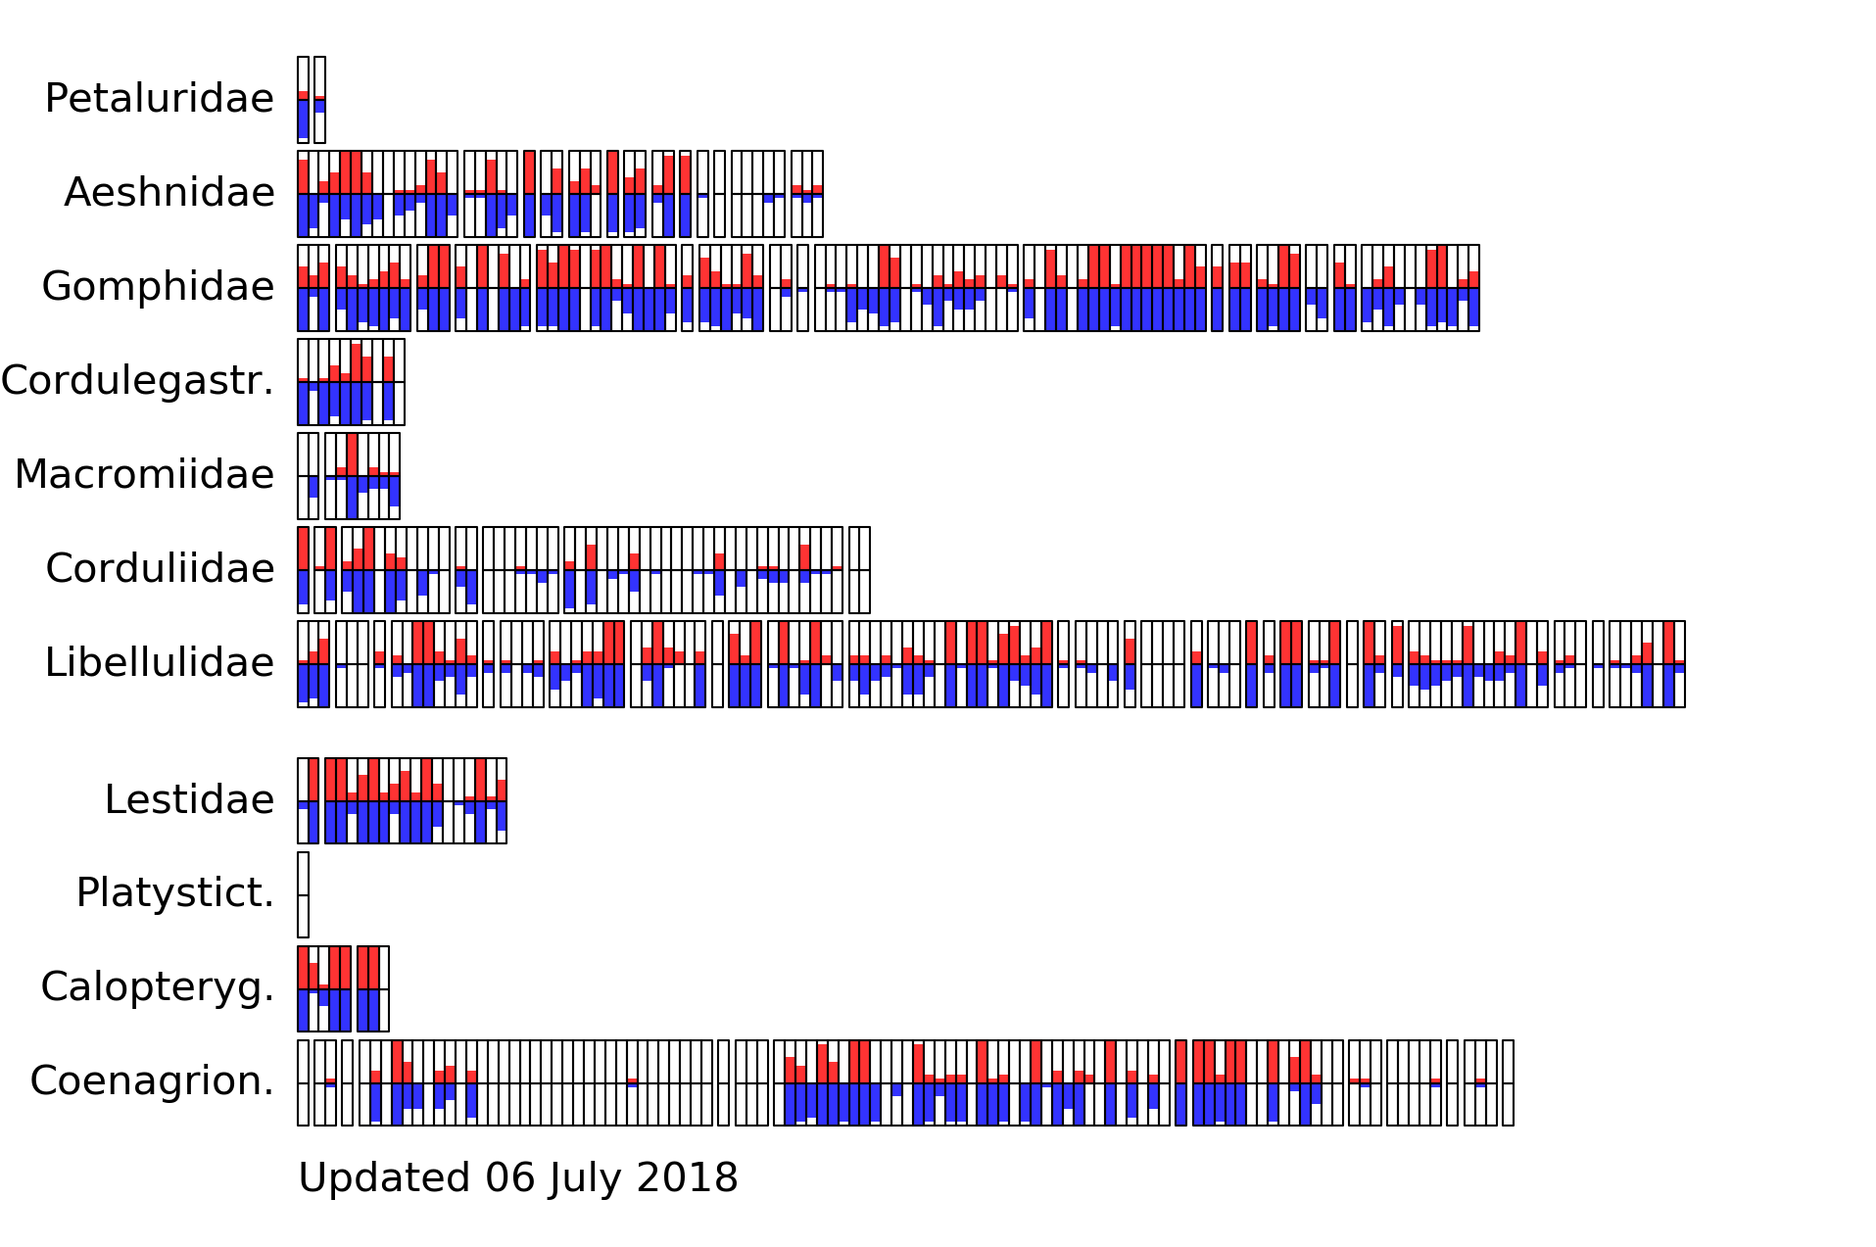
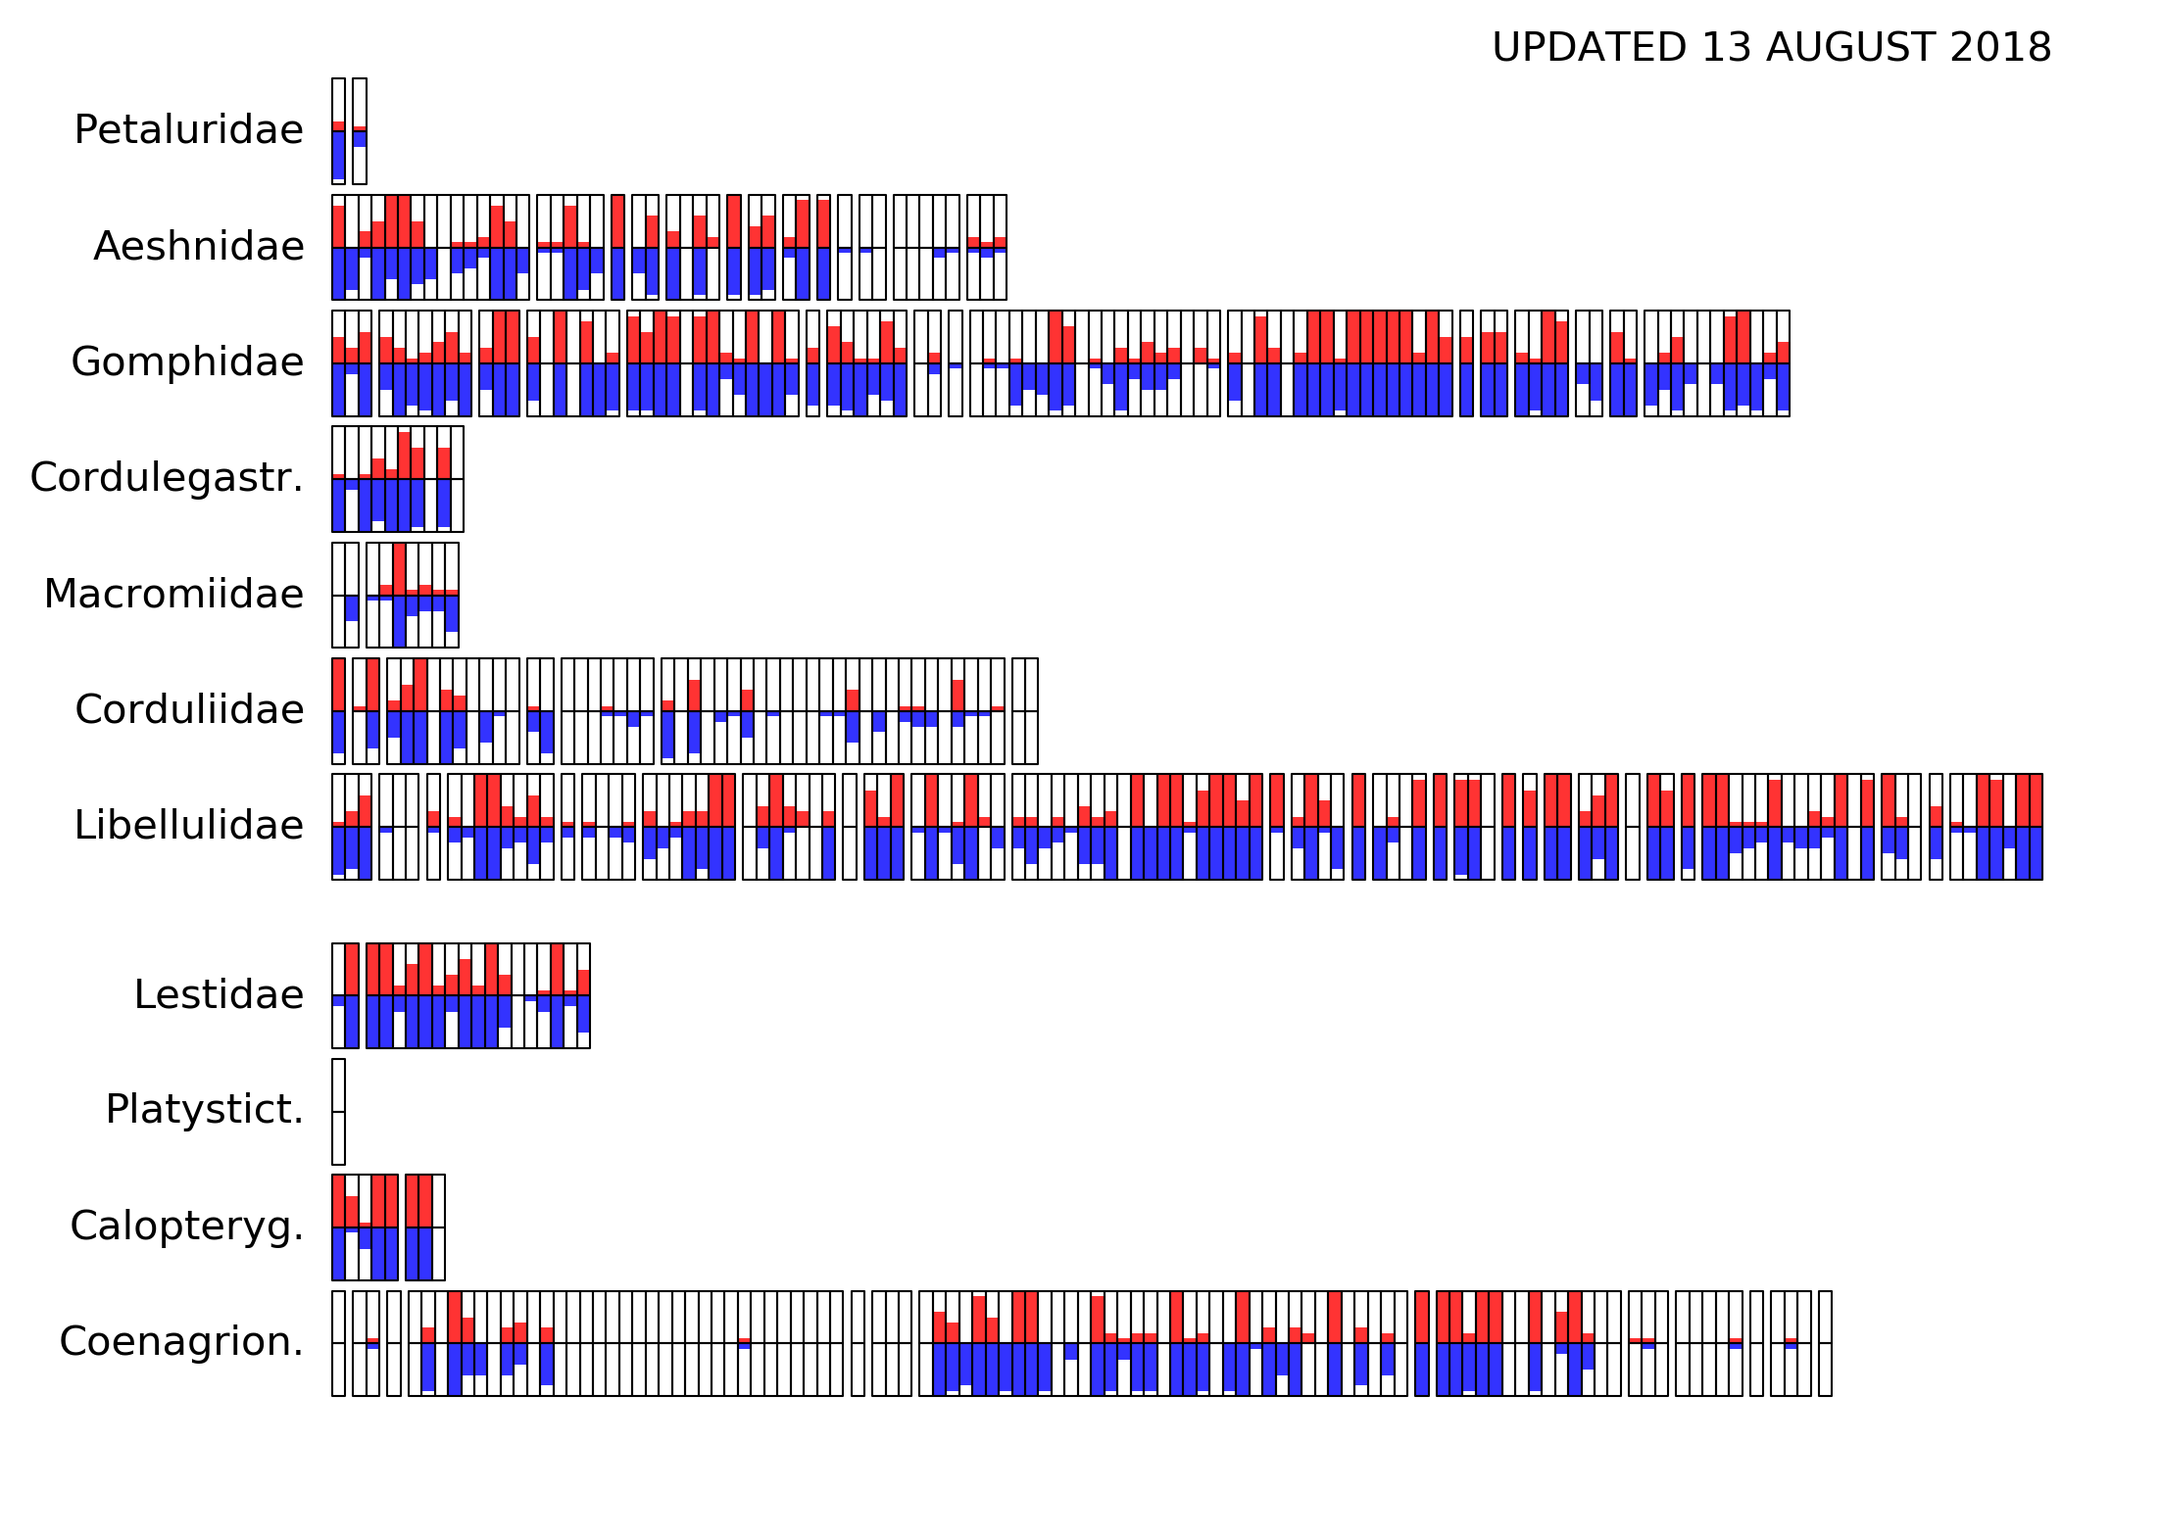
updated stats

Changed region(s): [[0.0, 0.0306, 0.9551, 0.9497], [0.801, 0.0, 0.9551, 0.0613], [0.7086, 0.0, 0.7702, 0.0613]]

diff --git a/_site/index.html b/_site/index.html
@@ -67,11 +67,11 @@
 
 <hr />
 
-<h2 id="about-the-project">About the Project<a href="#"></a></h2>
+<h2 id="about-the-project">About the Project</h2>
 
 <p><strong>Dragonflies and damselflies (Odonata)</strong> are highly skilled aerial acrobats, due largely to the intricacies of their most prominent features: their <strong>wings</strong>. These structures are both functional and beautiful: they provide extreme maneuverability and durability in a lightweight package, and they can be marked with bright color patterns and even iridescence! The structure and appearance of these wings provides a <strong>rich source of information</strong> about the evolutionary history, aerodynamic constraints, and behavior of a species.</p>
 
-<p>The Targeted Odonata Wing Digitization (TOWD) Project is part of an <a href="https://www.nsf.gov/awardsearch/showAward?AWD_ID=1564386&amp;HistoricalAwards=false"><strong>NSF-funded</strong></a>, multi-institutional effort to develop ODOMATIC, software for automatically identifying Odonata from images. Initiated in 2016, the TOWD Project aims to digitize the world’s dragonfly and damselfly species, starting with the approx. <strong>464 North American species</strong>. We are working to produce a <strong>high-resolution imagery</strong> of these species (including multiple males and females from each), partnering with several odonate collections, and building the most complete dataset of odonate wings ever compiled. Behind the scenes, we use <strong>computer vision</strong> to pull phenotypic information from our wings, which can be used for identification and comparative study.</p>
+<p>The Targeted Odonata Wing Digitization (TOWD) Project is part of an <a href="https://www.nsf.gov/awardsearch/showAward?AWD_ID=1564386&amp;HistoricalAwards=false"><strong>NSF-funded</strong></a>, multi-institutional effort to develop ODOMATIC, software for automatically identifying Odonata from images. Initiated in 2016, the TOWD Project aims to digitize the world’s dragonfly and damselfly species, starting with the approx. <strong>466 North American species</strong>. We are working to produce a <strong>high-resolution imagery</strong> of these species (including multiple males and females from each), partnering with several odonate collections, and building the most complete dataset of odonate wings ever compiled. Behind the scenes, we use <strong>computer vision</strong> to pull phenotypic information from our wings, which can be used for identification and comparative study.</p>
 
 <p>The TOWD dataset will be used for <strong>two main purposes</strong>:</p>
 <ol>
@@ -94,11 +94,11 @@
 <h3 id="acknowledgement-of-nsf-support">Acknowledgement of NSF Support</h3>
 <p>This material is based upon work supported by the National Science Foundation under Grant No. 1564386. Any opinions, findings, and conclusions or recommendations expressed in this material are those of the author(s) and do not necessarily reflect the views of the National Science Foundation.</p>
 
-<h2 id="project-progress">Project progress<a href="#"></a></h2>
+<h2 id="project-progress">Project progress</h2>
 
-<p>Our goal is to image at least 10 males and 10 females from each of the 464 North American dragonfly and damselfly species. The progress of this ambitious endeavor is listed below as quick stats and as an illustrative figure.</p>
+<p>Our goal is to image at least 10 males and 10 females from each of the 466 North American dragonfly and damselfly species. The progress of this ambitious endeavor is listed below as quick stats and as an illustrative figure.</p>
 
-<h3 id="quick-stats-as-of-07-july-2018">Quick stats (as of 07 July 2018):</h3>
+<h3 id="quick-stats-as-of-13-august-2018">Quick stats (as of 13 August 2018):</h3>
 
 <table>
   <thead>
@@ -112,27 +112,27 @@
   <tbody>
     <tr>
       <td style="text-align: left">North Amer. individuals scanned</td>
-      <td style="text-align: right">3,608</td>
-      <td style="text-align: right">9,280</td>
-      <td style="text-align: right">38.88%</td>
+      <td style="text-align: right">3,932</td>
+      <td style="text-align: right">9,320</td>
+      <td style="text-align: right">42%</td>
     </tr>
     <tr>
       <td style="text-align: left">North Amer. species started (1+ scan)</td>
-      <td style="text-align: right">351</td>
-      <td style="text-align: right">464</td>
-      <td style="text-align: right">75.65%</td>
+      <td style="text-align: right">357</td>
+      <td style="text-align: right">466</td>
+      <td style="text-align: right">77%</td>
     </tr>
     <tr>
       <td style="text-align: left">North Amer. species with 10+ scans</td>
-      <td style="text-align: right">179</td>
-      <td style="text-align: right">464</td>
-      <td style="text-align: right">38.58%</td>
+      <td style="text-align: right">199</td>
+      <td style="text-align: right">466</td>
+      <td style="text-align: right">43%</td>
     </tr>
     <tr>
       <td style="text-align: left">North Amer. species completed*</td>
-      <td style="text-align: right">62</td>
-      <td style="text-align: right">464</td>
-      <td style="text-align: right">13.36%</td>
+      <td style="text-align: right">71</td>
+      <td style="text-align: right">466</td>
+      <td style="text-align: right">15%</td>
     </tr>
     <tr>
       <td style="text-align: left">*completed species = 10 males + 10 females scanned</td>
@@ -148,7 +148,7 @@
 <p><img src="assets\Scanning progress - North American Odonata.png" alt="Wing digitization progress" />
 Here, all North American species are represented as black boxes. Clusters of boxes represent genera (sorted alphabetically), and rows are families. The number of scans that we’ve made out of 10 for males (red) and females (blue) are shown as progress bars for each species.</p>
 
-<h2 id="who-is-the-towd-project">Who is the TOWD Project?<a href="#"></a></h2>
+<h2 id="who-is-the-towd-project">Who is the TOWD Project?</h2>
 
 <h3 id="meet-our-team">Meet Our Team</h3>
 
@@ -187,11 +187,11 @@ Here, all North American species are represented as black boxes. Clusters of box
   <li>Rosser W. Garrison Collection (Sacramento, CA)</li>
 </ul>
 
-<h2 id="publications">Publications<a href="#"></a></h2>
+<h2 id="publications">Publications</h2>
 
 <p>Coming soon!</p>
 
-<h2 id="resources">Resources<a href="#"></a></h2>
+<h2 id="resources">Resources</h2>
 
 <h3 id="project-on-github">Project on GitHub</h3>
 

diff --git a/README.md b/README.md
@@ -7,11 +7,11 @@
 
 * * *
 
-## About the Project<a href="#">
+## About the Project
 
 **Dragonflies and damselflies (Odonata)** are highly skilled aerial acrobats, due largely to the intricacies of their most prominent features: their **wings**. These structures are both functional and beautiful: they provide extreme maneuverability and durability in a lightweight package, and they can be marked with bright color patterns and even iridescence! The structure and appearance of these wings provides a **rich source of information** about the evolutionary history, aerodynamic constraints, and behavior of a species.
 
-The Targeted Odonata Wing Digitization (TOWD) Project is part of an [**NSF-funded**](https://www.nsf.gov/awardsearch/showAward?AWD_ID=1564386&HistoricalAwards=false), multi-institutional effort to develop ODOMATIC, software for automatically identifying Odonata from images. Initiated in 2016, the TOWD Project aims to digitize the world's dragonfly and damselfly species, starting with the approx. **464 North American species**. We are working to produce a **high-resolution imagery** of these species (including multiple males and females from each), partnering with several odonate collections, and building the most complete dataset of odonate wings ever compiled. Behind the scenes, we use **computer vision** to pull phenotypic information from our wings, which can be used for identification and comparative study.
+The Targeted Odonata Wing Digitization (TOWD) Project is part of an [**NSF-funded**](https://www.nsf.gov/awardsearch/showAward?AWD_ID=1564386&HistoricalAwards=false), multi-institutional effort to develop ODOMATIC, software for automatically identifying Odonata from images. Initiated in 2016, the TOWD Project aims to digitize the world's dragonfly and damselfly species, starting with the approx. **466 North American species**. We are working to produce a **high-resolution imagery** of these species (including multiple males and females from each), partnering with several odonate collections, and building the most complete dataset of odonate wings ever compiled. Behind the scenes, we use **computer vision** to pull phenotypic information from our wings, which can be used for identification and comparative study.
 
 The TOWD dataset will be used for **two main purposes**:
 1. as training data to **expand the capabilities of [ODOMATIC](https://www.crossveins.com/research)** - an automatic species recognition system for dragonflies and damselflies, and
@@ -33,18 +33,18 @@ Specimen scans are uploaded to our dataset on [Cyverse's BisQue](https://bisque.
 ### Acknowledgement of NSF Support
 This material is based upon work supported by the National Science Foundation under Grant No. 1564386. Any opinions, findings, and conclusions or recommendations expressed in this material are those of the author(s) and do not necessarily reflect the views of the National Science Foundation.
 
-## Project progress<a href="#">
+## Project progress
 
-Our goal is to image at least 10 males and 10 females from each of the 464 North American dragonfly and damselfly species. The progress of this ambitious endeavor is listed below as quick stats and as an illustrative figure.
+Our goal is to image at least 10 males and 10 females from each of the 466 North American dragonfly and damselfly species. The progress of this ambitious endeavor is listed below as quick stats and as an illustrative figure.
 
-### Quick stats (as of 07 July 2018):
+### Quick stats (as of 13 August 2018):
 
 |                                                       | Current | Goal  | % of goal |
 |:------------------------------------------------------|--------:|------:|----------:|
-| North Amer. individuals scanned                       | 3,608   | 9,280 | 38.88%    |
-| North Amer. species started (1+ scan)                 | 351     | 464   | 75.65%    |
-| North Amer. species with 10+ scans                    | 179     | 464   | 38.58%    |
-| North Amer. species completed*                        | 62      | 464   | 13.36%    |
+| North Amer. individuals scanned                       | 3,932   | 9,320 | 42%       |
+| North Amer. species started (1+ scan)                 | 357     | 466   | 77%       |
+| North Amer. species with 10+ scans                    | 199     | 466   | 43%       |
+| North Amer. species completed*                        | 71      | 466   | 15%       |
 | *completed species = 10 males + 10 females scanned                                  |
 
 ### Progress figure:
@@ -52,7 +52,7 @@ Our goal is to image at least 10 males and 10 females from each of the 464 North
 ![Wing digitization progress](assets\Scanning progress - North American Odonata.png)
 Here, all North American species are represented as black boxes. Clusters of boxes represent genera (sorted alphabetically), and rows are families. The number of scans that we've made out of 10 for males (red) and females (blue) are shown as progress bars for each species.
 
-## Who is the TOWD Project?<a href="#">
+## Who is the TOWD Project?
 
 ### Meet Our Team
 
@@ -89,11 +89,11 @@ Our work couldn't be done without the dragonfly and damselfly specimens to digit
 - John Abbott Collection (Tuscaloosa, AL)
 - Rosser W. Garrison Collection (Sacramento, CA)
 
-## Publications<a href="#">
+## Publications
 
 Coming soon!
 
-## Resources<a href="#">
+## Resources
 
 ### Project on GitHub
 

diff --git a/_site/README.md b/_site/README.md
@@ -7,11 +7,11 @@
 
 * * *
 
-## About the Project<a href="#">
+## About the Project
 
 **Dragonflies and damselflies (Odonata)** are highly skilled aerial acrobats, due largely to the intricacies of their most prominent features: their **wings**. These structures are both functional and beautiful: they provide extreme maneuverability and durability in a lightweight package, and they can be marked with bright color patterns and even iridescence! The structure and appearance of these wings provides a **rich source of information** about the evolutionary history, aerodynamic constraints, and behavior of a species.
 
-The Targeted Odonata Wing Digitization (TOWD) Project is part of an [**NSF-funded**](https://www.nsf.gov/awardsearch/showAward?AWD_ID=1564386&HistoricalAwards=false), multi-institutional effort to develop ODOMATIC, software for automatically identifying Odonata from images. Initiated in 2016, the TOWD Project aims to digitize the world's dragonfly and damselfly species, starting with the approx. **464 North American species**. We are working to produce a **high-resolution imagery** of these species (including multiple males and females from each), partnering with several odonate collections, and building the most complete dataset of odonate wings ever compiled. Behind the scenes, we use **computer vision** to pull phenotypic information from our wings, which can be used for identification and comparative study.
+The Targeted Odonata Wing Digitization (TOWD) Project is part of an [**NSF-funded**](https://www.nsf.gov/awardsearch/showAward?AWD_ID=1564386&HistoricalAwards=false), multi-institutional effort to develop ODOMATIC, software for automatically identifying Odonata from images. Initiated in 2016, the TOWD Project aims to digitize the world's dragonfly and damselfly species, starting with the approx. **466 North American species**. We are working to produce a **high-resolution imagery** of these species (including multiple males and females from each), partnering with several odonate collections, and building the most complete dataset of odonate wings ever compiled. Behind the scenes, we use **computer vision** to pull phenotypic information from our wings, which can be used for identification and comparative study.
 
 The TOWD dataset will be used for **two main purposes**:
 1. as training data to **expand the capabilities of [ODOMATIC](https://www.crossveins.com/research)** - an automatic species recognition system for dragonflies and damselflies, and
@@ -33,18 +33,18 @@ Specimen scans are uploaded to our dataset on [Cyverse's BisQue](https://bisque.
 ### Acknowledgement of NSF Support
 This material is based upon work supported by the National Science Foundation under Grant No. 1564386. Any opinions, findings, and conclusions or recommendations expressed in this material are those of the author(s) and do not necessarily reflect the views of the National Science Foundation.
 
-## Project progress<a href="#">
+## Project progress
 
-Our goal is to image at least 10 males and 10 females from each of the 464 North American dragonfly and damselfly species. The progress of this ambitious endeavor is listed below as quick stats and as an illustrative figure.
+Our goal is to image at least 10 males and 10 females from each of the 466 North American dragonfly and damselfly species. The progress of this ambitious endeavor is listed below as quick stats and as an illustrative figure.
 
-### Quick stats (as of 07 July 2018):
+### Quick stats (as of 13 August 2018):
 
 |                                                       | Current | Goal  | % of goal |
 |:------------------------------------------------------|--------:|------:|----------:|
-| North Amer. individuals scanned                       | 3,608   | 9,280 | 38.88%    |
-| North Amer. species started (1+ scan)                 | 351     | 464   | 75.65%    |
-| North Amer. species with 10+ scans                    | 179     | 464   | 38.58%    |
-| North Amer. species completed*                        | 62      | 464   | 13.36%    |
+| North Amer. individuals scanned                       | 3,932   | 9,320 | 42%       |
+| North Amer. species started (1+ scan)                 | 357     | 466   | 77%       |
+| North Amer. species with 10+ scans                    | 199     | 466   | 43%       |
+| North Amer. species completed*                        | 71      | 466   | 15%       |
 | *completed species = 10 males + 10 females scanned                                  |
 
 ### Progress figure:
@@ -52,7 +52,7 @@ Our goal is to image at least 10 males and 10 females from each of the 464 North
 ![Wing digitization progress](assets\Scanning progress - North American Odonata.png)
 Here, all North American species are represented as black boxes. Clusters of boxes represent genera (sorted alphabetically), and rows are families. The number of scans that we've made out of 10 for males (red) and females (blue) are shown as progress bars for each species.
 
-## Who is the TOWD Project?<a href="#">
+## Who is the TOWD Project?
 
 ### Meet Our Team
 
@@ -89,11 +89,11 @@ Our work couldn't be done without the dragonfly and damselfly specimens to digit
 - John Abbott Collection (Tuscaloosa, AL)
 - Rosser W. Garrison Collection (Sacramento, CA)
 
-## Publications<a href="#">
+## Publications
 
 Coming soon!
 
-## Resources<a href="#">
+## Resources
 
 ### Project on GitHub
 
